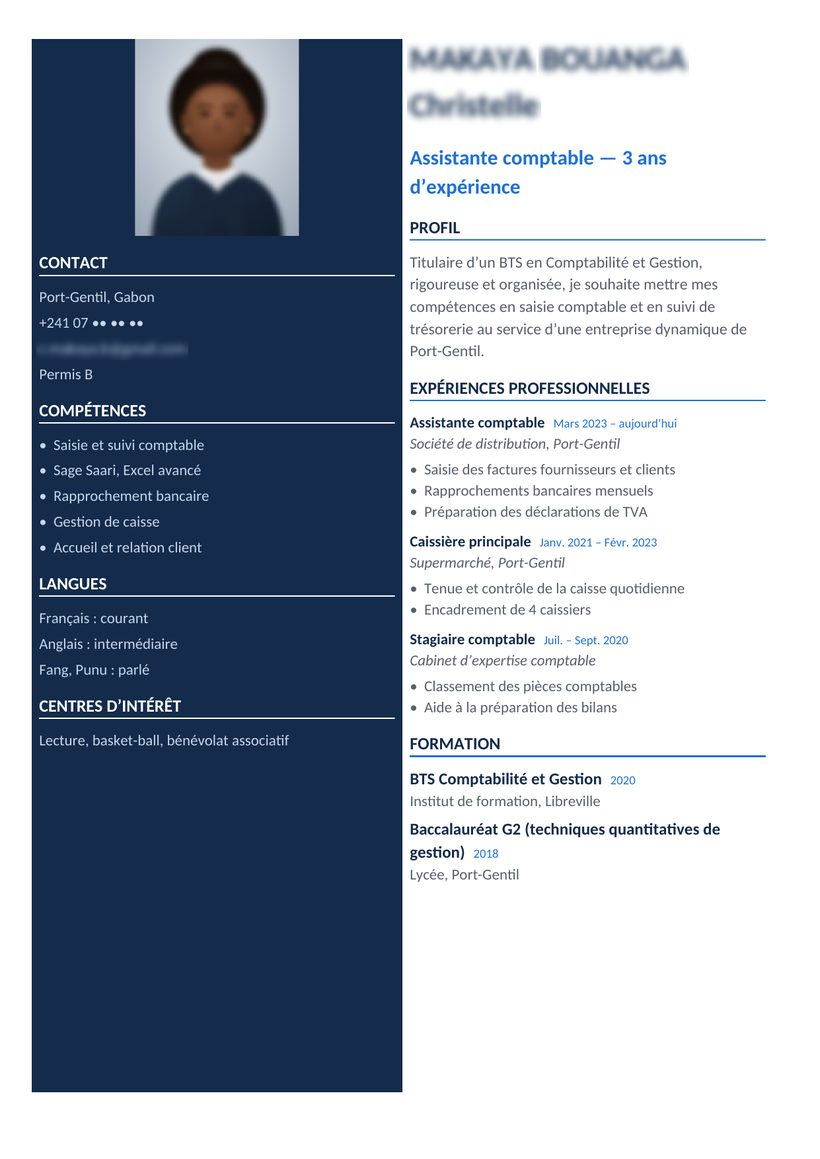
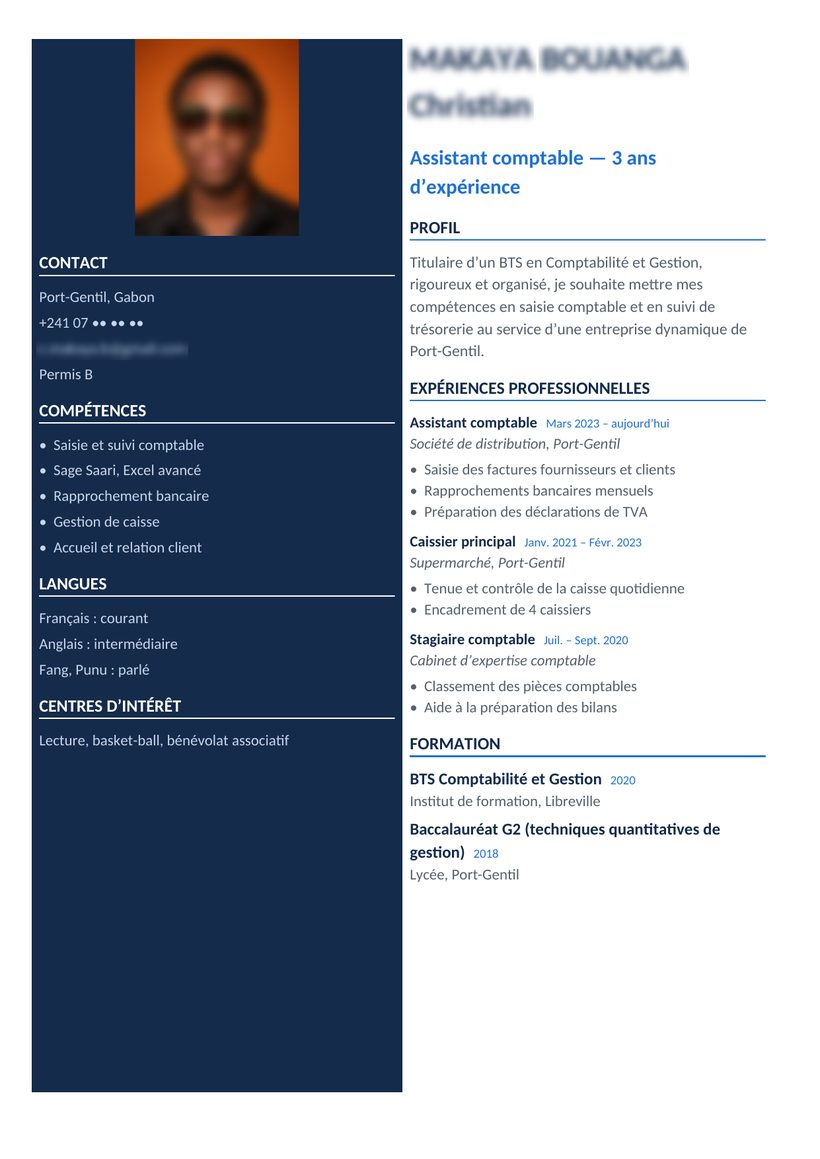
CV : photo d'Elie floutée, CV et lettre au masculin
Claude-Session: https://claude.ai/code/session_016jUhftS51Xg4Fh975KBxor

diff --git a/dex.html b/dex.html
@@ -231,9 +231,9 @@
             <span class="doc__pile"><img src="assets/img/dex/expose-classicisme.jpg" alt="Page de garde : Le classicisme" loading="lazy" width="820" height="1159"></span>
             <span class="doc__legende"><b>Le classicisme</b><small>Exposé · Français · Première</small></span>
           </button>
-          <button class="doc apparait" type="button" style="--delai:0.00s" data-cat="cv" data-pages="assets/img/dex/cv.jpg|assets/img/dex/lettre.jpg" data-titre="CV et lettre de motivation" data-sous="Assistante comptable · 2 pages">
+          <button class="doc apparait" type="button" style="--delai:0.00s" data-cat="cv" data-pages="assets/img/dex/cv.jpg|assets/img/dex/lettre.jpg" data-titre="CV et lettre de motivation" data-sous="Assistant comptable · 2 pages">
             <span class="doc__pile"><img src="assets/img/dex/cv.jpg" alt="Page de garde : CV et lettre de motivation" loading="lazy" width="820" height="1159"><span class="doc__nb">2 pages</span></span>
-            <span class="doc__legende"><b>CV et lettre de motivation</b><small>Assistante comptable · 2 pages</small></span>
+            <span class="doc__legende"><b>CV et lettre de motivation</b><small>Assistant comptable · 2 pages</small></span>
           </button>
           <button class="doc apparait" type="button" style="--delai:0.07s" data-cat="expose" data-pages="assets/img/dex/expose-anglais.jpg" data-titre="Value proposition" data-sous="Exposé · Anglais · École de commerce">
             <span class="doc__pile"><img src="assets/img/dex/expose-anglais.jpg" alt="Page de garde : Value proposition" loading="lazy" width="820" height="1159"></span>
